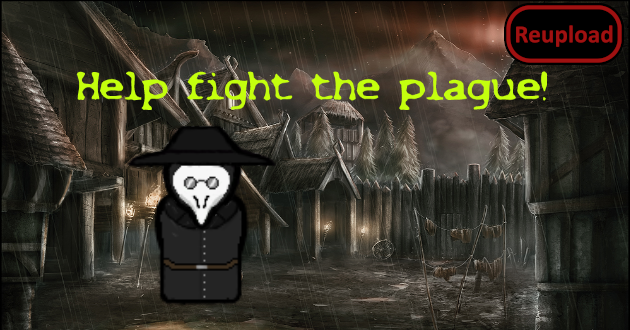
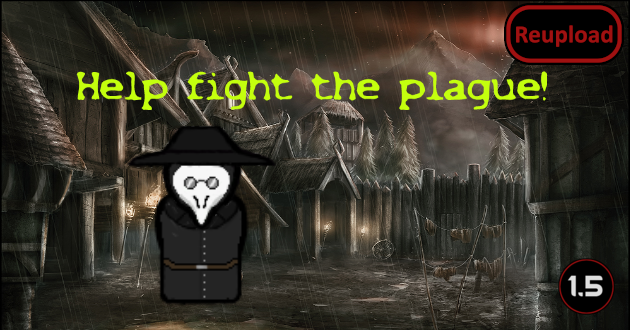
Mod updated for 1.5 and passed autotests

Changed region(s): [[0.8746, 0.7879, 0.9952, 0.9697]]

diff --git a/Source/GraphicApparelDetour/Detours.cs b/Source/GraphicApparelDetour/Detours.cs
@@ -7,9 +7,9 @@ namespace GraphicApparelDetour;
 
 public static class Detours
 {
-    private static readonly List<string> detoured = new List<string>();
+    private static readonly List<string> detoured = [];
 
-    private static readonly List<string> destinations = new List<string>();
+    private static readonly List<string> destinations = [];
 
     // Note: this type is marked as 'beforefieldinit'.
     static Detours()
@@ -51,10 +51,13 @@ public static class Detours
                     var ptr = (byte*)num;
                     var ptr2 = (long*)(ptr + 2);
                     *ptr = 72;
-                    ptr[1] = 184;
-                    *ptr2 = num2;
-                    ptr[10] = byte.MaxValue;
-                    ptr[11] = 224;
+                    if (ptr != null)
+                    {
+                        ptr[1] = 184;
+                        *ptr2 = num2;
+                        ptr[10] = byte.MaxValue;
+                        ptr[11] = 224;
+                    }
                 }
                 else
                 {

diff --git a/README.md b/README.md
@@ -70,11 +70,13 @@ _█░░░░░░░░░░█______█_███__█_____███_█_
 
 -  See if the the error persists if you just have this mod and its requirements active.
 -  If not, try adding your other mods until it happens again.
--  Post your error-log using https://steamcommunity.com/workshop/filedetails/?id=818773962]HugsLib and command Ctrl+F12
+-  Post your error-log using https://steamcommunity.com/workshop/filedetails/?id=818773962]HugsLib or the standalone https://steamcommunity.com/sharedfiles/filedetails/?id=2873415404]Uploader and command Ctrl+F12
 -  For best support, please use the Discord-channel for error-reporting.
 -  Do not report errors by making a discussion-thread, I get no notification of that.
 -  If you have the solution for a problem, please post it to the GitHub repository.
+-  Use https://github.com/RimSort/RimSort/releases/latest]RimSort to sort your mods
 
 
 
+https://steamcommunity.com/sharedfiles/filedetails/changelog/2030339891]![Image](https://img.shields.io/github/v/release/emipa606/PlagueDoctorsSuit?label=latest%20version&style=plastic&color=9f1111&labelColor=black)
 
